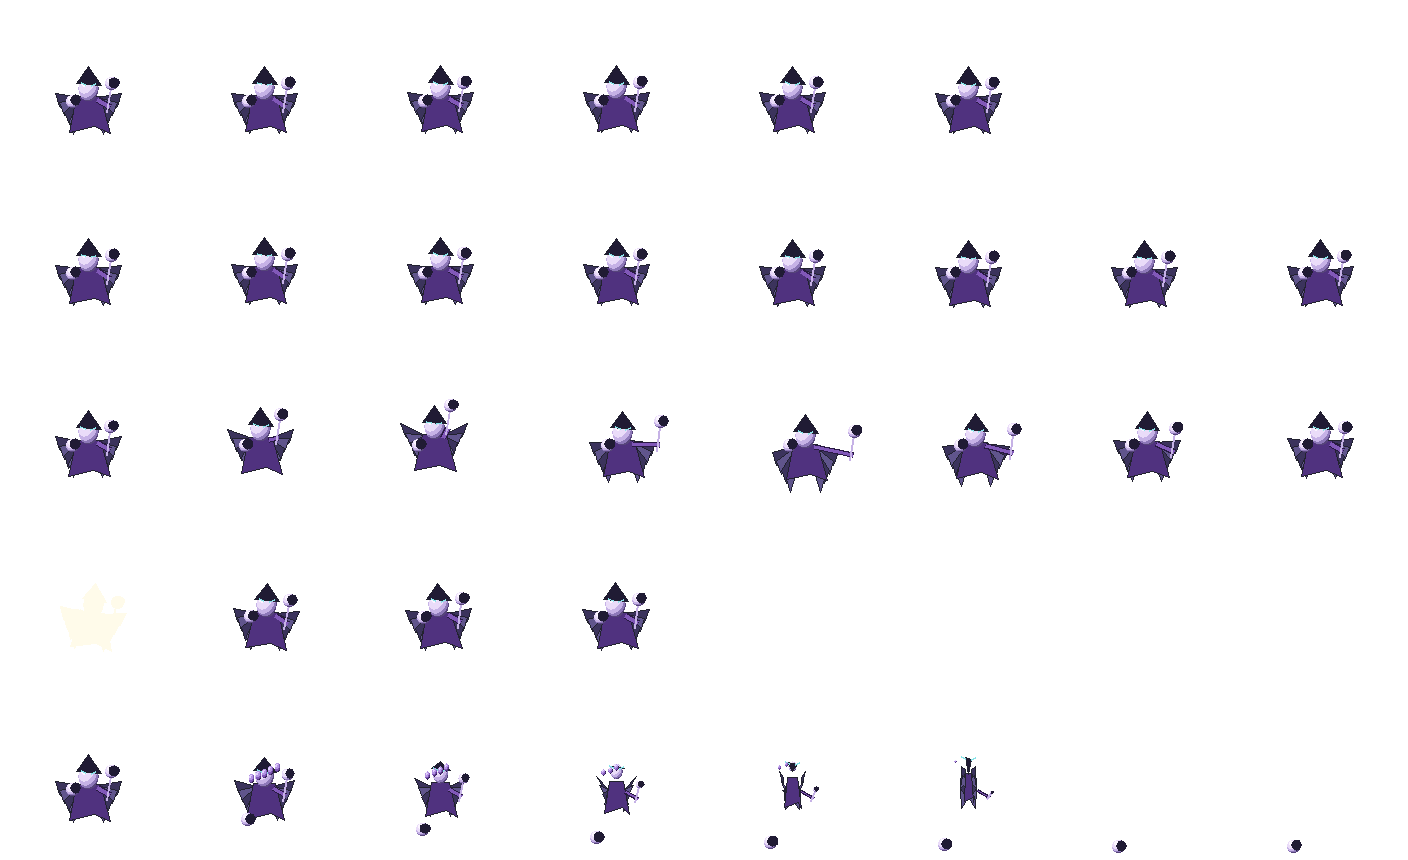
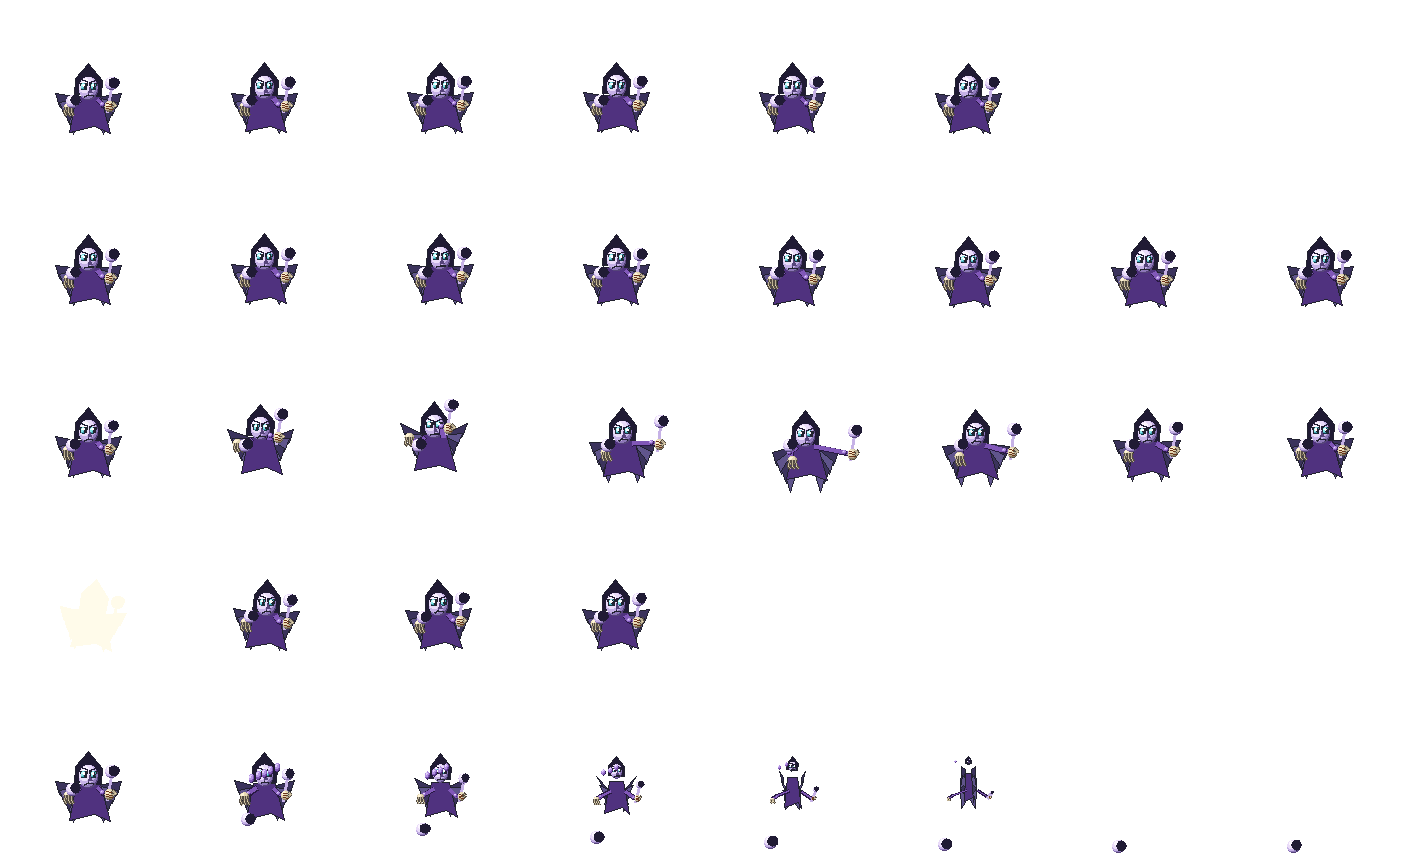
fix(art): give the Harbinger a visible face and articulated hands

diff --git a/client/index.html b/client/index.html
@@ -40,7 +40,7 @@
     <svg id="logo" class="logo" viewBox="0 0 1000 440" role="img" aria-label="Valhalla Rumble, 발할라 럼블"></svg>
 
     <p class="cta"><span class="cta-en">[ Touch to Awaken the Horn ]</span><span class="cta-ko" lang="ko">터치하여 시작</span></p>
-    <p class="version">Beta 1.43.1</p>
+    <p class="version">Beta 1.43.2</p>
 
     <button class="start" id="start" type="button" aria-label="Touch to awaken the horn"></button>
   </section>

diff --git a/scripts/solstice_slime_models.py b/scripts/solstice_slime_models.py
@@ -126,13 +126,41 @@ def harbinger(setup, clip, n):
                 tip=(x+side*(36-j*5)*fade,y+18-j*10+9*w-12*s+25*d)
                 r.poly([(x+side*9,y+14),(tip[0],tip[1]),(tip[0]-side*5,tip[1]-14*fade),(x+side*8,y-8)],SLATE[1+j%2],OUTLINE)
         r.poly([(x-13*fade,y+15+20*d),(x+13*fade,y+15+20*d),(x+24*fade,y-25+30*d),(x+6,y-18+30*d),(x-21*fade,y-24+30*d)],PURPLE[1],OUTLINE)
-        r.ball(x,y+24+24*d,11*fade,14*fade,PEARL)
-        r.poly([(x-13*fade,y+29+24*d),(x,y+47*fade+24*d),(x+14*fade,y+27+24*d)],SLATE[0],OUTLINE)
-        for side in (-1,1):r.line([(x+side*3,y+27+24*d),(x+side*8,y+29+24*d)],TEAL[3],2)
+        # Hood is BEHIND the face; the old triangle hid the brow and eyes.
+        fy=y+24+24*d
+        r.poly([(x-15*fade,fy-7*fade),(x-14*fade,fy+10*fade),(x,fy+27*fade),
+                (x+15*fade,fy+8*fade),(x+14*fade,fy-9*fade)],SLATE[0],OUTLINE)
+        r.ball(x,fy,10.5*fade,13*fade,PEARL)
+        # A distinct severe face: dark angular sockets, bright irises, nose and frown.
+        for side in (-1,1):
+            ex=x+side*5*fade
+            r.poly([(ex-4*fade,fy+5*fade),(ex+4*fade,fy+5*fade),
+                    (ex+3*fade,fy-1*fade),(ex-3*fade,fy-1*fade)],OUTLINE)
+            r.ball(ex,fy+2*fade,3*fade,3.6*fade,TEAL)
+            r.ellipse(ex+1.3*fade,fy+2*fade,.8*fade,2.5*fade,OUTLINE)
+            r.ellipse(ex,fy+3*fade,.8*fade,.8*fade,WHITE)
+            r.line([(ex-side*4*fade,fy+6*fade),(ex+side*4*fade,fy+9*fade)],SLATE[0],2)
+        r.poly([(x+fade,fy+fade),(x+4*fade,fy-5*fade),(x,fy-6*fade)],PEARL[0])
+        r.line([(x-4*fade,fy-9*fade),(x,fy-7*fade),(x+5*fade,fy-8*fade)],OUTLINE,2)
+        # Sleeves end at two visible articulated hands, rather than a bare staff and wing.
+        far=(x-22-5*w+8*s,y+3+9*w-6*s)
+        r.limb([(x-10*fade,y+12),(x-17,y+6),far],PURPLE,5*fade)
+        r.ball(*far,5.5*fade,5*fade,BONE)
+        for j in range(3):
+            r.limb([(far[0]+(j-1)*3*fade,far[1]),
+                    (far[0]+(j-1)*4*fade,far[1]-6*fade),
+                    (far[0]+(j-1)*4*fade+2*fade,far[1]-9*fade)],BONE,1.5*fade)
         hand=(x+23+28*s-7*w,y+4+18*w)
-        r.limb([(x+10,y+12),hand],PURPLE,4*fade)
-        r.line([(hand[0]-2,hand[1]-7*fade),(hand[0]+2,hand[1]+20*fade)],PEARL[2],2)
+        r.limb([(x+10,y+12),(hand[0]-8*fade,hand[1]+2*fade),hand],PURPLE,5*fade)
+        r.line([(hand[0]-2,hand[1]-7*fade),(hand[0]+2,hand[1]+20*fade)],PEARL[2],3)
         crescent(r,hand[0]+2,hand[1]+25*fade,7*fade)
+        r.ball(*hand,5.5*fade,6*fade,BONE)
+        # Fingers wrap across the shaft, thumb hooks over its near edge.
+        for j in range(3):
+            r.line([(hand[0]-3*fade,hand[1]+(3-j*2.5)*fade),
+                    (hand[0]+3*fade,hand[1]+(2-j*2.5)*fade)],BROWN[0],1)
+        r.limb([(hand[0]+3*fade,hand[1]+4*fade),
+                (hand[0]+6*fade,hand[1]+fade),(hand[0]+3*fade,hand[1]-fade)],BONE,2*fade)
     if d>0:
         for j in range(5):
             if j < round(5*(1-d)):

diff --git a/tests/solstice-harbinger-face.py b/tests/solstice-harbinger-face.py
@@ -1,0 +1,52 @@
+#!/usr/bin/env python3
+"""Check visible facial features and two separate hands in exported Harbinger art."""
+import hashlib,json,os,sys
+from pathlib import Path
+import numpy as np
+from PIL import Image
+ROOT=Path(__file__).resolve().parents[1]
+sys.path.insert(0,str(ROOT/'scripts'))
+import kindframe
+from astral_slime_redraw import PALETTE,BONE,TEAL,OUTLINE
+meta=json.loads((ROOT/'client/assets/cathedral.txt').read_text())
+w,h,ax,ay=kindframe.frame_of(meta,'solstice_harbinger')
+atlas=Image.open(os.environ.get('MUTATE_FACE_PNG',ROOT/'client/assets/cathedral_solstice_harbinger.png')).convert('RGBA')
+
+def mask(im,colors):
+    rgb=np.array([list(bytes.fromhex(PALETTE[i][1:])) for i in colors])
+    return (im[:,:,None,:3]==rgb).all(-1).any(-1)&(im[:,:,3]>0)
+
+def components(bits):
+    todo=set(zip(*np.nonzero(bits)));groups=[]
+    while todo:
+        start=todo.pop();group={start};stack=[start]
+        while stack:
+            y,x=stack.pop()
+            for dy,dx in ((-1,0),(1,0),(0,-1),(0,1),(-1,-1),(-1,1),(1,-1),(1,1)):
+                p=(y+dy,x+dx)
+                if p in todo:todo.remove(p);group.add(p);stack.append(p)
+        groups.append(group)
+    return sorted(groups,key=len,reverse=True)
+
+checks=0
+for clip in ('idle','walk','attack','hurt'):
+    spec=meta['clips'][clip]
+    for n in range(spec['n']):
+        if clip=='hurt' and n==0:continue # White hit flash deliberately conceals all materials.
+        im=np.array(atlas.crop((n*w,spec['row']*h,(n+1)*w,(spec['row']+1)*h)))
+        eyes=components(mask(im,TEAL))
+        assert len(eyes)>=2 and min(map(len,eyes[:2]))>=3,(clip,n,'two visible bright eyes')
+        eye_points=np.array(list(eyes[0]|eyes[1]));ey,ex=eye_points.mean(axis=0)
+        # Mouth and nose must be inside the lower face, below and between the eyes.
+        dark=mask(im,[OUTLINE])
+        center=round(ex);top=round(ey)+4
+        assert dark[top:top+8,center-4:center+5].sum()>=4,(clip,n,'readable mouth below the eyes')
+        hands=components(mask(im,BONE))
+        assert len(hands)>=2 and min(map(len,hands[:2]))>=35,(clip,n,'two substantial visible hands')
+        centers=[np.array(list(g)).mean(axis=0) for g in hands[:2]]
+        assert abs(centers[0][1]-centers[1][1])>=20,(clip,n,'hands are separate at the sleeve ends')
+        checks+=4
+backup=Path('/media/raid/valhallasc-data/solstice-harbinger-before-face-fix-20261111')
+other=json.loads((backup/'other-atlas-hashes.json').read_text())
+assert all(hashlib.sha256((ROOT/rel).read_bytes()).hexdigest()==sha for rel,sha in other.items()),'unrelated enemy atlases changed'
+print(f'Harbinger face/hands: {checks} checks across 25 living poses; {len(other)} other atlases unchanged')

diff --git a/tests/solstice-materials.py b/tests/solstice-materials.py
@@ -39,7 +39,9 @@ def bounds(mask):
 check(without_solstice(meta)==without_solstice(base) and len([k for k in base['kinds'] if k not in KINDS])==140,'all 140 unrelated Cathedral kinds and manifest fields preserved')
 hashes=json.loads((BACKUP/'manifest.txt').read_text())['unrelatedAtlasHashes']
 check(all(hashlib.sha256((ROOT/rel).read_bytes()).hexdigest()==digest for rel,digest in hashes.items()),f'all {len(hashes)} unrelated native atlases preserved')
-for kind in KINDS:
+selected=os.environ.get('SOLSTICE_MATERIAL_KINDS',','.join(KINDS)).split(',')
+assert selected and all(k in KINDS for k in selected), 'valid material selection'
+for kind in selected:
     w,h,ax,ay=kindframe.frame_of(meta,kind)
     check((w,h,ax,ay)==(176,172,88,164),f'{kind}: declared frame and anchor')
     attacks=[cell(kind,'attack',n) for n in range(8)]

diff --git a/scripts/solstice_slime_review.py b/scripts/solstice_slime_review.py
@@ -255,9 +255,10 @@ def upload():
     for name in expected_files():
         src = OUT / name
         mime = 'image/gif' if src.suffix == '.gif' else 'image/png'
-        subprocess.run(['bash', str(put_script), str(src), name, mime], check=True)
         dst = filedrop_dir / name
         meta_path = Path(str(dst) + '.meta.json')
+        if not dst.is_file() or not meta_path.is_file() or hashlib.sha256(dst.read_bytes()).digest() != hashlib.sha256(src.read_bytes()).digest():
+            subprocess.run(['bash', str(put_script), str(src), name, mime], check=True)
         assert dst.is_file() and meta_path.is_file(), f'FileDrop missing {name}'
         sha = hashlib.sha256(src.read_bytes()).hexdigest()
         assert hashlib.sha256(dst.read_bytes()).hexdigest() == sha, f'SHA mismatch for {name}'

diff --git a/TODO.md b/TODO.md
@@ -563,7 +563,9 @@ Kinds: `solstice_flurry`, `solstice_owl`, `solstice_guard`, `solstice_watcher`, 
 - [x] `SOLSTICE-DUNGEON-SLIME-CHECK` — Bounded real-art check: contract/anchor/34 frames (against the zone's declared frame size and anchor), each clip animates, **each death clip is distinct and matches the enemy's material**, **each attack clip has eight distinct frames with a clear wind-up, strike and recovery**, nonempty frames clear of the border, production portraits; no full suites.
 - [x] `SOLSTICE-DUNGEON-SLIME-FILEDROP` — Upload before, after and before/after comparison pictures (plus the death clips) to FileDrop and verify hashes. Deployment only after the owner approves.
 
-**Private candidate ready (2026-11-11), awaiting picture approval:** branch `feat/silent-solstice-slime-art`, worktree `/media/raid/valhallasc-data/silent-solstice-slime-work`; six native editable PixelFlow sources / 204 frames, 176×172 at (88,164), distinct faces, eight substantial attacks and material-fitting deaths. Flurry disperses into settled snow, owl falls bodily, guard topples with rigid armour/shield/spear, Watcher breaks into hard ice halves, Harbinger dissipates leaving a fallen crescent relic, Heart extinguishes and drops six crystal petals. Original 6/10/12/10/8 fps and all 140 unrelated Cathedral kinds + 129 unrelated native atlases preserved. Bounded client batches pass 62 + 62 assertions (`driver-33EBAc`, `driver-GiCumd`); 36 material checks pass, all six semantic corpse-as-idle mutations and old-atlas client mutation fail. Seven-file guarded rollback `scripts/rollback_solstice_art.py`, backup `/media/raid/valhallasc-data/solstice-slime-original-20261111`, verified restoration and corrupt-backup/unrelated-change refusal. Shared maker delegates Solstice at CLI/module level and retains Amber's native dispatch when its candidate module is present (legacy otherwise); `dungeon_cel.py solstice` delegates before deletion. 29 hash/metadata-verified FileDrop PNG/GIFs (3,392,179 bytes), receipt `test-results/solstice-slime/filedrop-receipt.json`. [Before/after](https://gunning.se/filedrop/api.php?action=download&file=valhallasc-solstice-before-after.png), [attacks](https://gunning.se/filedrop/api.php?action=download&file=valhallasc-solstice-attacks-before-after.png), [deaths](https://gunning.se/filedrop/api.php?action=download&file=valhallasc-solstice-deaths-before-after.gif). Candidate Beta 1.43.1; reconcile version and shared Cathedral manifest slices before release. Live assets/version unchanged. Candidate docs `docs/solstice-slime-art.md`; wiki `10_projects:valhallasc_silent_solstice_slime_art_20261111`. **Next art group: Nornroot Barrow** (`NORNROOT-SLIME-ART`).
+**Private candidate ready (2026-11-11), awaiting picture approval:** branch `feat/silent-solstice-slime-art`, worktree `/media/raid/valhallasc-data/silent-solstice-slime-work`; six native editable PixelFlow sources / 204 frames, 176×172 at (88,164), distinct faces, eight substantial attacks and material-fitting deaths. Flurry disperses into settled snow, owl falls bodily, guard topples with rigid armour/shield/spear, Watcher breaks into hard ice halves, Harbinger dissipates leaving a fallen crescent relic, Heart extinguishes and drops six crystal petals. Original 6/10/12/10/8 fps and all 140 unrelated Cathedral kinds + 129 unrelated native atlases preserved. Bounded client batches pass 62 + 62 assertions (`driver-33EBAc`, `driver-GiCumd`); 36 material checks pass, all six semantic corpse-as-idle mutations and old-atlas client mutation fail. Seven-file guarded rollback `scripts/rollback_solstice_art.py`, backup `/media/raid/valhallasc-data/solstice-slime-original-20261111`, verified restoration and corrupt-backup/unrelated-change refusal. Shared maker delegates Solstice at CLI/module level and retains Amber's native dispatch when its candidate module is present (legacy otherwise); `dungeon_cel.py solstice` delegates before deletion. 29 hash/metadata-verified FileDrop PNG/GIFs (3,475,732 bytes), receipt `test-results/solstice-slime/filedrop-receipt.json`. [Before/after](https://gunning.se/filedrop/api.php?action=download&file=valhallasc-solstice-before-after.png), [attacks](https://gunning.se/filedrop/api.php?action=download&file=valhallasc-solstice-attacks-before-after.png), [deaths](https://gunning.se/filedrop/api.php?action=download&file=valhallasc-solstice-deaths-before-after.gif). Candidate Beta 1.43.2; reconcile version and shared Cathedral manifest slices before release. Live assets/version unchanged. Candidate docs `docs/solstice-slime-art.md`; wiki `10_projects:valhallasc_silent_solstice_slime_art_20261111`. **Next art group: Nornroot Barrow** (`NORNROOT-SLIME-ART`).
+
+**Harbinger correction (2026-11-11):** owner reported no face or hands. Hood now sits behind a readable face (teal eyes, dark sockets/brows, nose and frown); two articulated hands end the sleeves, one open with clawed fingers and one visibly gripping the staff. Corrected all 34 native editor frames at the same source ID; all 134 other Cathedral atlases unchanged. Focused face/hand checks: 100 across 25 living poses; old blank-face atlas mutation fails. Harbinger material checks: 7; bounded real-art client checks: 24 (`driver-xfyh4G`). Refreshed and hash/metadata-verified all 29 review receipt entries; candidate Beta 1.43.2, not deployed. [Updated Harbinger animation](https://gunning.se/filedrop/api.php?action=download&file=valhallasc-solstice-solstice_harbinger-animations.gif). Pre-fix candidate/editor backup `/media/raid/valhallasc-data/solstice-harbinger-before-face-fix-20261111`.
 
 #### Zone 41: Nornroot Barrow
 

diff --git a/docs/solstice-slime-art.md b/docs/solstice-slime-art.md
@@ -1,6 +1,6 @@
 # Silent Solstice enemy artwork candidate
 
-Prepared 2026-11-11 in `/media/raid/valhallasc-data/silent-solstice-slime-work`, branch `feat/silent-solstice-slime-art`. Private candidate awaiting picture approval under the enemy remake rules in `TODO.md`. Candidate Beta 1.43.1; reconcile the current version and shared Cathedral manifest slices before deployment.
+Prepared 2026-11-11 in `/media/raid/valhallasc-data/silent-solstice-slime-work`, branch `feat/silent-solstice-slime-art`. Private candidate awaiting picture approval under the enemy remake rules in `TODO.md`. Candidate Beta 1.43.2; reconcile the current version and shared Cathedral manifest slices before deployment.
 
 Six native editable PixelFlow sources, 204 frames. Each uses a 176×172 frame and anchor (88,164), eight distinct wind-up/strike/recovery poses and eight distinct material-fitting death poses. The original clip counts and rates remain: idle 6 at 6 fps, walk 8 at 10 fps, attack 8 at 12 fps, hurt 4 at 10 fps, death 8 at 8 fps. The shared Cathedral manifest retains its 96×96 fallback, (48,90) anchor and all 140 unrelated kinds. All 129 unrelated native atlases remain byte-identical. Artwork only; no server, map, combat or reward changes.
 
@@ -48,7 +48,7 @@ Dry run by default. Disposable-copy verification: dry run writes nothing; applic
 
 ## Review pictures
 
-29 PNG/GIF files, 3,392,179 bytes, uploaded and verified against SHA-256, FileDrop MIME/metadata, byte counts, dimensions and animation frame counts. Receipt: `test-results/solstice-slime/filedrop-receipt.json`.
+29 PNG/GIF files, 3,475,732 bytes, uploaded and verified against SHA-256, FileDrop MIME/metadata, byte counts, dimensions and animation frame counts. Receipt: `test-results/solstice-slime/filedrop-receipt.json`.
 
 - [Before/after](https://gunning.se/filedrop/api.php?action=download&file=valhallasc-solstice-before-after.png)
 - [Attacks](https://gunning.se/filedrop/api.php?action=download&file=valhallasc-solstice-attacks-before-after.png)
@@ -57,3 +57,11 @@ Dry run by default. Disposable-copy verification: dry run writes nothing; applic
 Each kind also has a full 34-frame sheet, combined animation GIF, attack comparison and death comparison under `valhallasc-solstice-<kind>-*`.
 
 Next enemy group: Nornroot Barrow (`NORNROOT-SLIME-ART`).
+
+## Harbinger face and hands correction (2026-11-11)
+
+Owner feedback: the Harbinger had no readable face or hands. Moved the hood behind the face; added bright teal eyes with dark sockets and brows, a nose and frown, an open clawed hand and a fingered hand visibly gripping the crescent staff. Both hands follow the sleeves throughout wind-up, strike and recovery, then dissipate with the spirit. Its existing native source `68c1c0853685b94c` now holds the corrected 34 frames; all 134 other native Cathedral atlases, including the five other Solstice enemies, remain unchanged. Previous model, raw frames, atlas, manifest and full editor packet are preserved at `/media/raid/valhallasc-data/solstice-harbinger-before-face-fix-20261111`.
+
+100 focused face/hand checks pass across 25 living poses (`tests/solstice-harbinger-face.py`); the pre-fix blank-face/handless atlas is rejected. The Harbinger's seven material/preservation checks pass. Its 34 editor frames equal the exported atlas. A focused bounded real-art client run passes 24 checks (`driver-xfyh4G`), including attacks, recovery, hovering, death, portrait and updated health-bar top. Review images/animations and the FileDrop receipt were refreshed. Upload skips byte-identical existing files and verifies every receipt entry. Candidate now Beta 1.43.2; still private pending picture approval.
+
+[Updated Harbinger animation](https://gunning.se/filedrop/api.php?action=download&file=valhallasc-solstice-solstice_harbinger-animations.gif).
